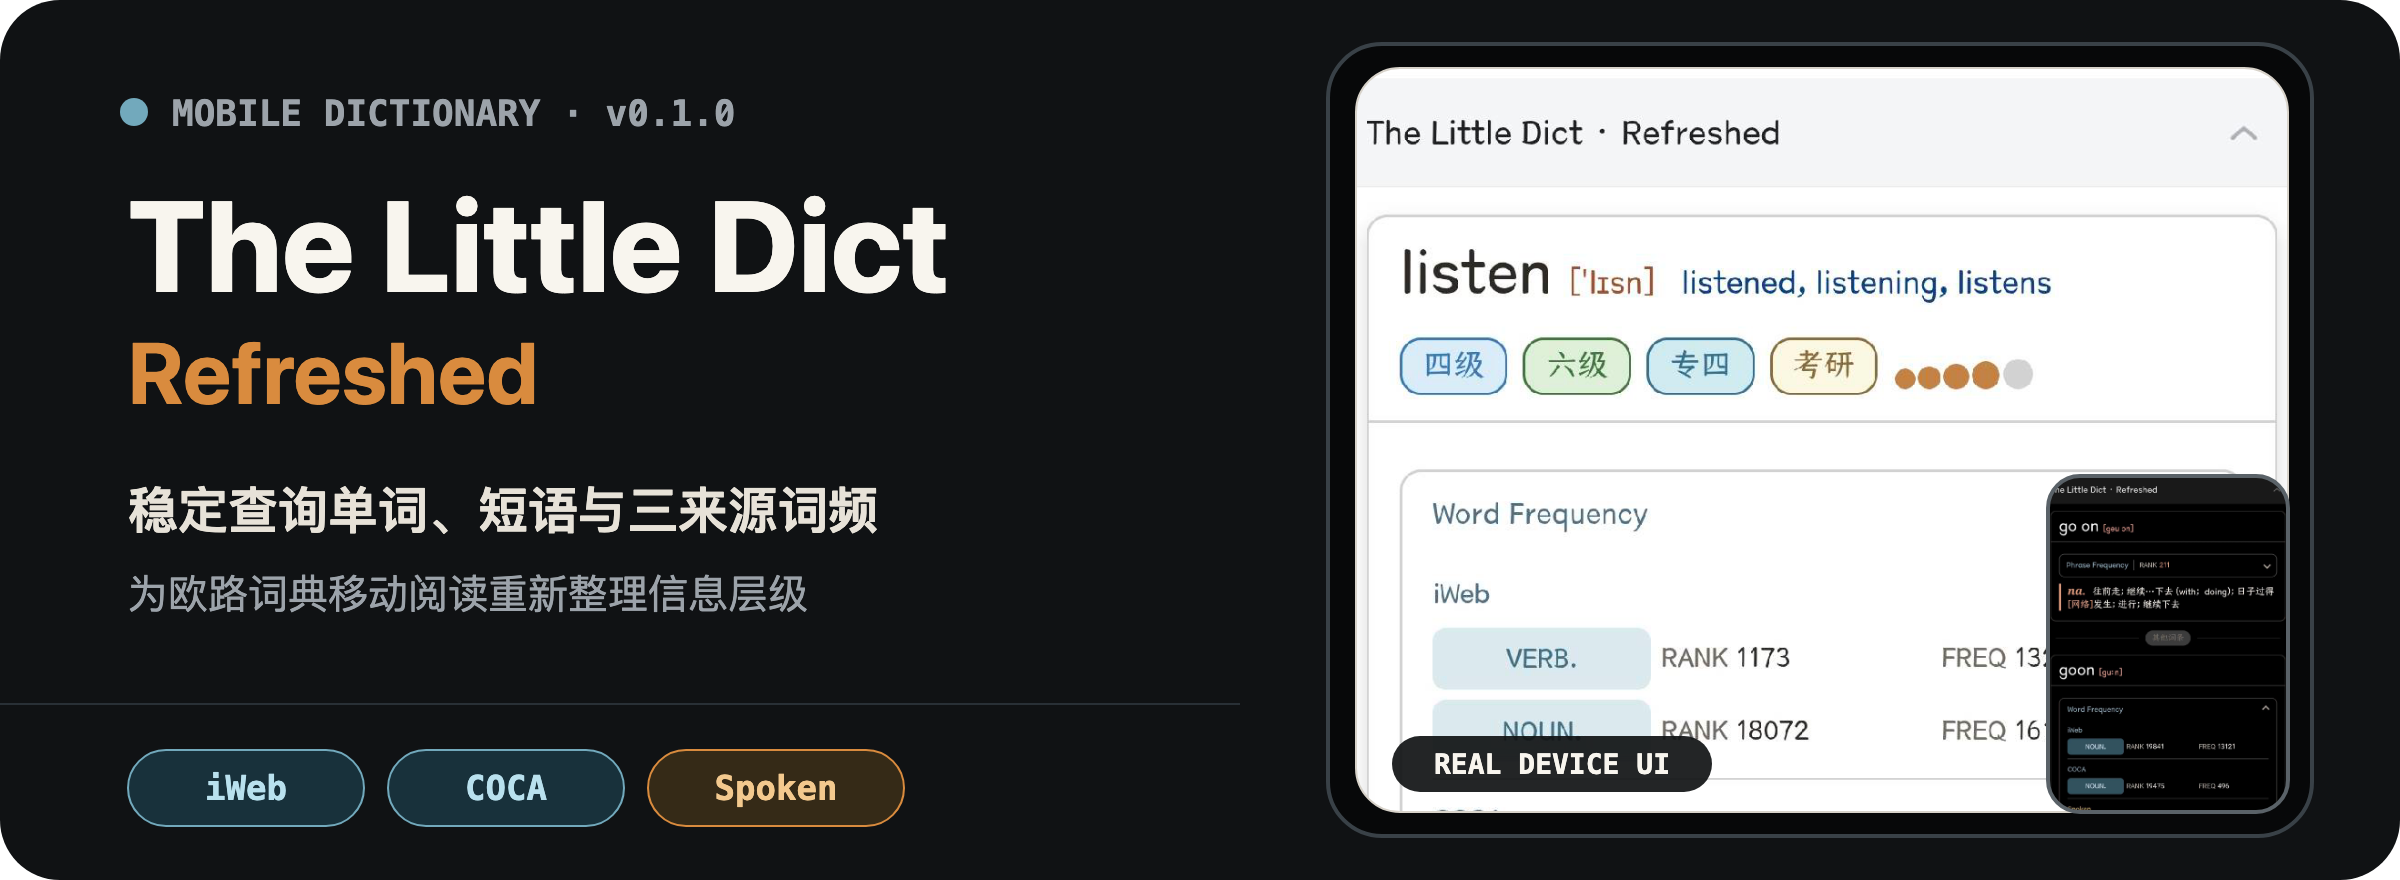
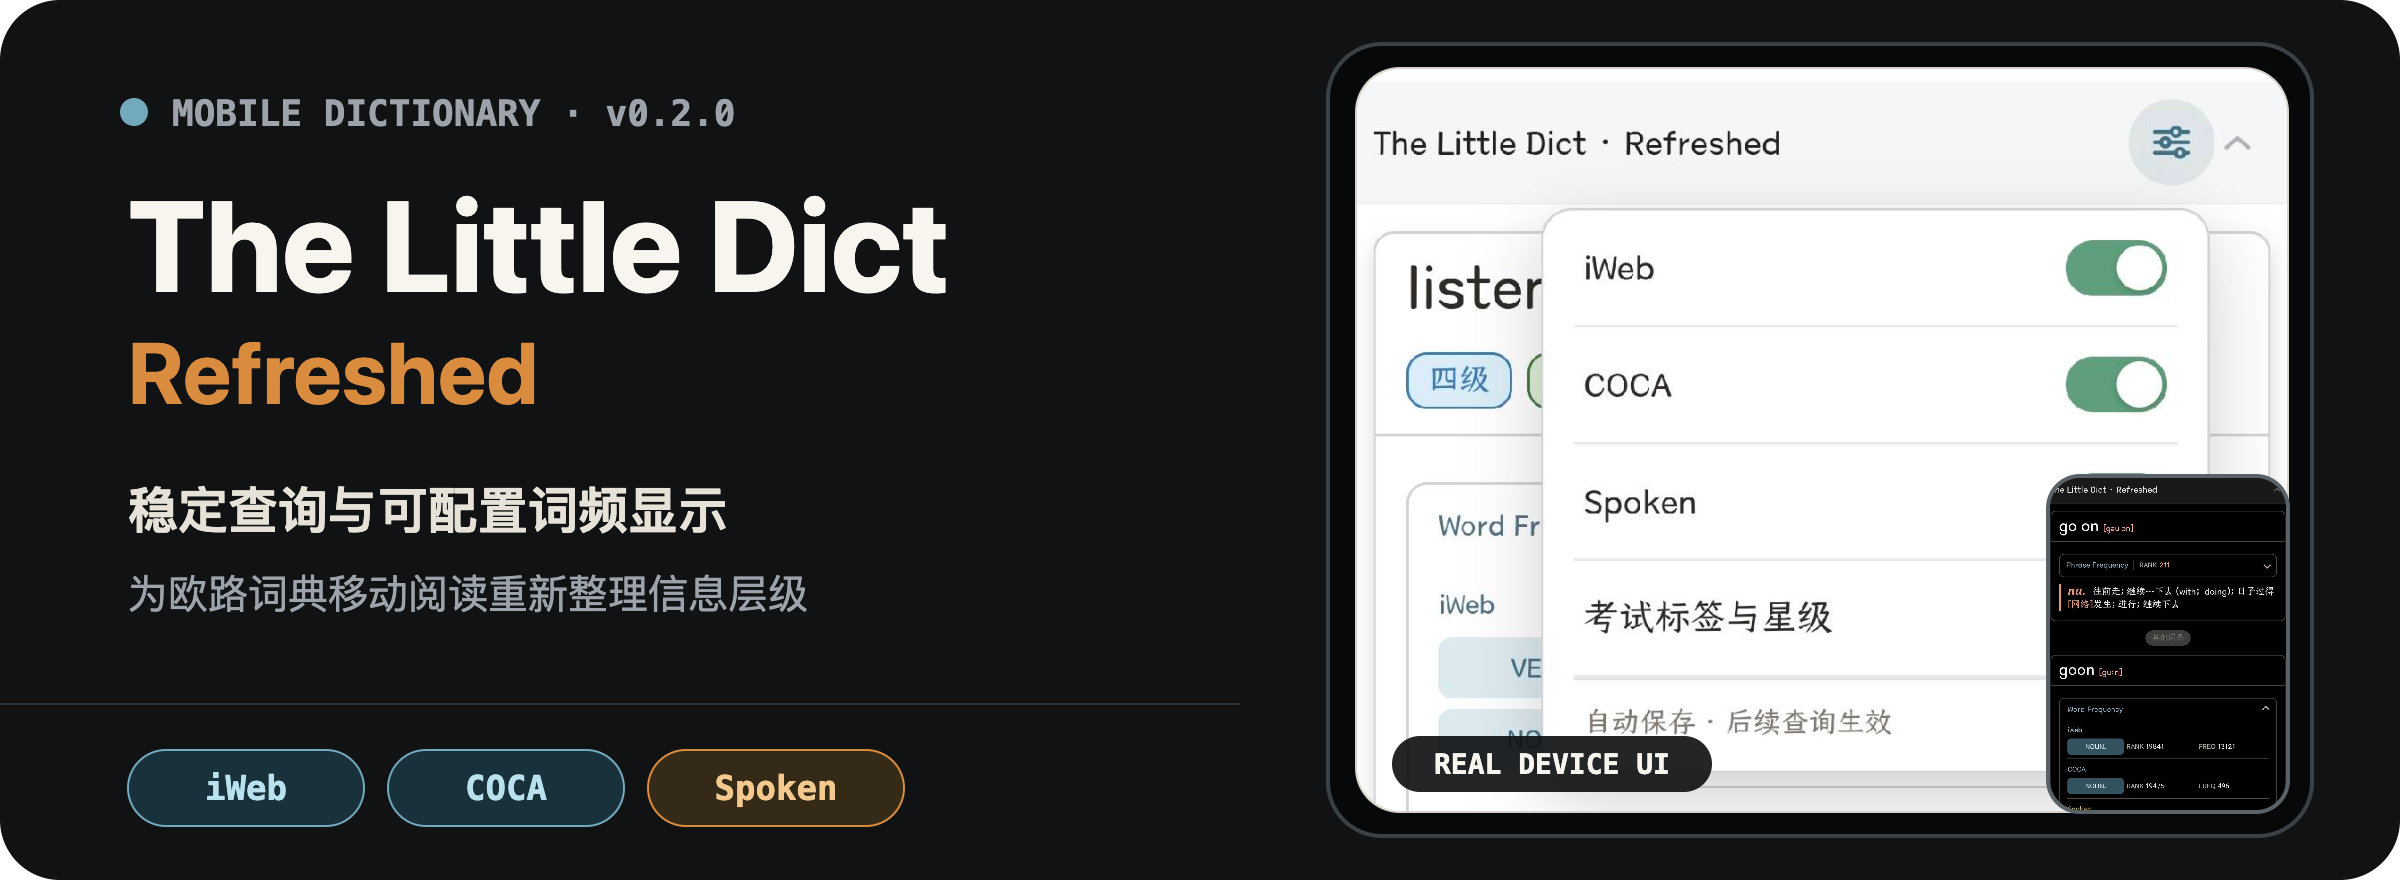
docs: prepare v0.2.0 release

diff --git a/README.md b/README.md
@@ -1,17 +1,26 @@
 <p align="center">
-  <img src="./assets/readme/hero.png" width="100%" alt="The Little Dict Refreshed 0.1.0：稳定查询单词、短语与三来源词频">
+  <img src="./assets/readme/hero.png" width="100%" alt="The Little Dict Refreshed 0.2.0：稳定查询与可配置词频显示">
 </p>
 
 <p align="center">
-  <strong>v0.1.0 · 稳定查询版</strong><br>
-  面向欧路词典移动端的稳定查询显示层
+  <strong>v0.2.0 · 可配置查询版</strong><br>
+  面向欧路词典移动端的稳定查询与显示控制
 </p>
 
-The Little Dict · Refreshed 在不修改词典正文与原始词频数据的前提下，重新整理单词、短语、词频来源与中文释义，让查询结果在手机、深色模式和动态加载场景中保持清晰、稳定。
+The Little Dict · Refreshed 在不修改词典正文与原始词频数据的前提下，重新整理单词、短语、词频来源与中文释义，并允许按需显示 iWeb、COCA、Spoken、Phrase Frequency、考试标签与星级。设置自动保存，让后续查询在手机、深色模式和动态加载场景中保持清晰、稳定。
 
 ## 实机效果
 
-以下截图来自 Android 实机，仅裁去状态栏、宿主工具栏和其他词典内容，没有重新生成或重绘界面文字。
+以下截图来自 Android 实机，仅裁去状态栏、宿主工具栏和其他词典内容，没有重新生成或重绘界面文字。v0.2.0 完整包也已在 iOS 实机稳定运行。
+
+### 页面显示设置
+
+<p align="center">
+  <a href="./assets/readme/screenshots/settings-light.png"><img src="./assets/readme/screenshots/settings-light.png" width="48%" align="top" alt="浅色模式下的页面显示设置浮层"></a>
+  <a href="./assets/readme/screenshots/settings-dark.png"><img src="./assets/readme/screenshots/settings-dark.png" width="48%" align="top" alt="深色模式下的页面显示设置浮层"></a>
+</p>
+
+<p align="center"><sub>左：浅色模式　·　右：深色模式（点击图片查看原尺寸）</sub></p>
 
 ### 单词查询
 
@@ -31,20 +40,22 @@ The Little Dict · Refreshed 在不修改词典正文与原始词频数据的前
 
 <p align="center"><sub>左：浅色模式　·　右：深色模式（点击图片查看原尺寸）</sub></p>
 
-## 0.1.0 包含什么
+## v0.2.0 包含什么
 
 - 单词词频统一为 `iWeb → COCA → Spoken` 三来源卡片；
 - 短语保留 `RANK`、`freq.`、`dict.`、`cmpt.` 与 `spoken` 数据；
 - Phrase Frequency 与相邻同形词的 Word Frequency 分开呈现；
 - 隐藏卡片内的词性占比条，保留卡片下方的释义占比胶囊；
-- 支持多词性、缺失来源、长数值和动态追加词条；
+- 可独立控制 iWeb、COCA、Spoken、Phrase Frequency、考试标签与星级；
+- 当前查询没有对应内容时自动省略设置项，修改后立即生效并自动保存；
+- 设置浮层保持在视口内，点击页面其他位置即可关闭；
 - 适配 320–720 CSS px、浅色模式与深色模式。
 
 ## 安装
 
 > 仓库不直接保存 `TLD.mdx`。请从项目的 [Releases](https://github.com/M3tar/The_Little_Dict_Refreshed/releases) 页面下载完整词典包，不要下载 GitHub 自动生成的 Source code ZIP。
 
-1. 在 Releases 页面下载 `TLD_Refreshed_v0.1.0_Android.zip`；
+1. 在 Releases 页面下载 `TLD_Refreshed_v0.2.0.zip`（已在 Android 与 iOS 实机验证）；
 2. 解压并确认其中包含 `TLD.mdx`、`TLD.png`、`config.ini`、`fy.js` 和 `p.css`；
 3. 在欧路词典中导入 `TLD.mdx`，并确保其他配套文件与其位于同一目录；
 4. 查询 `listen` 和 `go on`，确认 Word Frequency 与 Phrase Frequency 正常显示。
@@ -57,7 +68,7 @@ The Little Dict · Refreshed 在不修改词典正文与原始词频数据的前
 
 ## 显示配置
 
-`config.ini` 提供首次导入时的默认显示设置。第二阶段页面设置保存偏好后，`iweb`、`coca`、`spoken`、`EPFD` 和 `exam` 的已保存值优先于这里的默认值。
+`config.ini` 提供首次导入时的默认显示设置。页面设置保存偏好后，`iweb`、`coca`、`spoken`、`EPFD` 和 `exam` 的已保存值优先于这里的默认值。
 
 | 配置项 | 默认值 | 作用 |
 | --- | ---: | --- |
@@ -88,25 +99,24 @@ p.css         布局、主题与响应式样式
 
 ## 验证状态
 
-- Android 实机：0.1.0 核心查询界面已验收；第二阶段 b06 暴露浮层左上角定位和外部点击关闭问题，b07 等待实机复验；
+- Android 与 iOS 实机：v0.2.0 完整包均可稳定运行；Android 已核对浅色、深色、单词、短语、相邻同形词及页面显示设置；
 - 本地 Chromium：正式源码与 b07 测试包各 39 组回归通过，混合缓存定位、透明外部点击层和折叠浮层专项通过；
 - 覆盖宽度：320、360、375、390、430、720 CSS px；
-- iOS：尚未进行实机测试。
+- 正式包：不含测试编号，包内资源与已验收源码一致。
 
 ## 路线图
 
-**0.1.0 · 稳定查询版（当前版本）**
+**0.2.0 · 可配置查询版（当前版本）**
 
-稳定查询单词、短语和词频，不改变词典正文数据。
+在 0.1.0 的稳定查询基础上，加入五项独立显示开关、内容感知设置项、自动保存与浮层交互。
 
-**下一版本 · 页面显示设置（开发中）**
+**0.1.0 · 稳定查询版**
 
-- 在词典分组标题右侧提供横向滑杆入口和轻量浮层；
-- 独立控制 iWeb、COCA、Spoken、Phrase Frequency、考试标签与星级；
-- 当前查询没有真实内容时省略对应设置项；
-- 设置立即生效并自动保存到后续查询。
+完成单词、短语、三来源词频、相邻同形词、释义占比胶囊及响应式深色模式的稳定显示。
 
-这一阶段只控制 0.1.0 已稳定模块的显隐，不重新设计词频数据结构；暂不加入简洁模式、页面内恢复默认入口，也不控制卡片下方的释义占比胶囊。
+**下一阶段**
+
+尚未定义。后续功能会继续以不修改词典正文和原始词频数据为前提，并在开发前单独确认范围。
 
 ## 开发约束
 

diff --git a/AGENTS.md b/AGENTS.md
@@ -8,13 +8,12 @@
 
 ## 2. 当前基线与路线图
 
-- 当前稳定基线：`v0.1.0`，Git 标签 `v0.1.0`。
-- 当前稳定能力：可靠查询单词、短语、词频及相邻同形词。
-- Android 核心查询界面已经实机验收。
-- iOS 仅完成代码兼容，尚未实机验收；不得写成“已完成 iOS 实测”。
-- 当前第二阶段：五项页面显示设置与偏好持久化，详细规范见 `docs/TLD_Refreshed_第二阶段_页面显示设置开发规范.md`。
-- 本轮不实现简洁查询模式、页面内恢复默认入口或其他显示开关；不得自行扩大范围。
-- 下一阶段只能控制 `v0.1.0` 已稳定模块的显隐，不重新设计词频数据结构。
+- 当前稳定版本：`v0.2.0`，Git 标签 `v0.2.0`；完整词典包通过同版本 GitHub Release 分发。
+- 上一稳定版本：`v0.1.0`，Git 标签 `v0.1.0`。
+- 当前稳定能力：可靠查询单词、短语、词频及相邻同形词，以及五项页面显示设置与偏好持久化。
+- v0.2.0 完整包已在 Android 与 iOS 实机稳定运行；Android 已完成浅色、深色和设置交互截图核对。
+- 第二阶段已经完成，详细规范与验收边界见 `docs/TLD_Refreshed_第二阶段_页面显示设置开发规范.md`。
+- 下一阶段尚未定义；不得自行加入简洁查询模式、页面内恢复默认入口或其他显示开关。
 
 ## 3. 文件职责
 
@@ -157,7 +156,7 @@ node --check tests/run-overlay-regression.js
 4. 执行 `node tests/run-mixed-cache-regression.js`，确认新版 JS 与旧 CSS 混用时设置入口仍保持可用；
 5. 执行 `node tests/run-overlay-regression.js`，确认宿主折叠或裁切时浮层仍完整可点，并验证滚动关闭与上下翻转；
 6. 人工查看代表性的 320px、390px 与 720px 截图；
-7. 对真实 MDX 制作 Android 测试包并完成目标词条实机验收。
+7. 对真实 MDX 制作测试包并完成目标移动端的目标词条实机验收。
 
 重点回归：
 
@@ -170,11 +169,11 @@ node --check tests/run-overlay-regression.js
 - 卡片内无词性占比条，卡片下方释义占比胶囊仍存在；
 - 正式版无测试构建标记。
 
-浏览器 fixture 只是快速回归，不能替代欧路 Android + 真实 `TLD.mdx` 的最终验收。
+浏览器 fixture 只是快速回归，不能替代欧路 Android/iOS + 真实 `TLD.mdx` 的最终验收。
 
 ## 10. 打包与发布
 
-- Android 包根目录必须只包含 `TLD.mdx`、`TLD.png`、`config.ini`、`fy.js` 和 `p.css`。
+- 完整发布包根目录必须只包含 `TLD.mdx`、`TLD.png`、`config.ini`、`fy.js` 和 `p.css`。
 - 打包前确认包内文件与本轮已验收源文件一致，并记录 ZIP 的 SHA-256。
 - 测试包放入 `releases/bNN/`；正式版本放入对应的 `releases/vX.Y.Z/`。
 - `TLD.mdx`、`releases/`、`tests/`、`docs/` 和 `pic/` 保持不进入普通 Git 提交。
